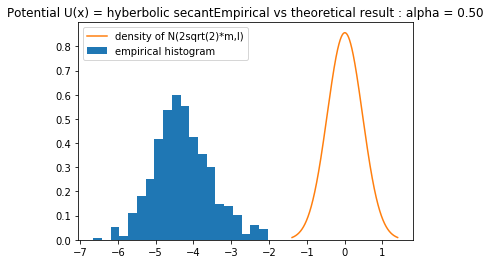
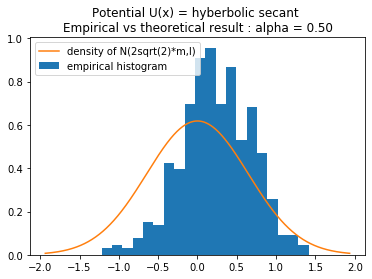
TCL for hyperbolic secant, logistic and laplace laws. Variance is ok but mean (m and hat_m) were not computed

diff --git a/calcul_integrales.py b/calcul_integrales.py
@@ -15,12 +15,29 @@ print("Intégrale I : {}".format(res/n))
 n = int(1e6)
 res=0
 for i in range(n):
-    X = 2/np.pi * hypsecant.rvs(size=1)
-    res += 4 * X**2 / (1 + X**2)**4
+    X = 2/np.pi * hypsecant.rvs(size=1)[0]
+    res += 8 * X**2 / (1 + X**2)**4
 print("Intégrale I hyperbolic secant: {}".format(res/n))
 '''
+#Cas logistique
+n = int(1e6)
+res=0
+for i in range(n):
+    X = np.random.logistic(0,1,size=1)
+    res += 8 * X**2 / (1 + X**2)**4
+print("Intégrale I logistic: {}".format(res/n))
+
+#Cas Laplace
+n = int(1e6)
+res=0
+for i in range(n):
+    X = np.random.laplace(0,1,size=1)
+    res += 8 * X**2 / (1 + X**2)**4
+print("Intégrale I laplace : {}".format(res/n))
+
 ########## Calcul de m pour phi = 1/(1+x^2) ##########
 '''
+#cas OU
 m = 0
 
 print("Intégrale m : {}".format(m))
@@ -29,11 +46,21 @@ print("Intégrale m : {}".format(m))
 n = int(1e6)
 res=0
 for i in range(n):
-    X = 2/np.pi * hypsecant.rvs(size=1)
+    X = 2/np.pi * hypsecant.rvs(size=1)[0]
     X = np.sqrt(2)*X
     res += 24* (X-X**3) / (1+X**2)**4
-print("Intégrale m hyperbolic secant: {}".format(res/n))
+print("Intégrale m hyperbolic secant: {}".format(-res/(6*n)))
+
+#Cas logistic
+n = int(1e6)
+res=0
+for i in range(n):
+    X = 2/np.pi * hypsecant.rvs(size=1)[0]
+    X = np.sqrt(2)*X
+    res += 24* (X-X**3) / (1+X**2)**4
+print("Intégrale m logistic: {}".format(res/n))
 '''
+
 
 ########## Calcul de hat(m) pour phi = 1/(1+x^2) ##########
 
@@ -49,7 +76,7 @@ for i in range(n):
     hat_m += phi4(X) + 0.5 * 0.25 * X**2 * ( 6*X**2 - 2) / ( 1 + X**2)**3
 
 print("Intégrale hat_m : {}".format(-hat_m/n))
-'''
+
 
 #Cas hyperbolic secant
 n = int(1e6)
@@ -60,3 +87,4 @@ for i in range(n):
     res += phi4(X) + 0.5 * 0.25 * X**2 * ( 6*X**2 - 2) / ( 1 + X**2)**3
 
 print("Intégrale hat_m : {}".format(-res/n))
+'''

diff --git a/src/test/PotentialProcess.py b/src/test/PotentialProcess.py
@@ -115,9 +115,9 @@ def heatmap(
 ############# for f = A.phi and phi(x) = 1/(1+x^2)                ##########
 ############ DEPEND ON U                                         ##########
         #à jour hyperbolic secant
-I = 0.21672253 #MC estimation n = 1e7 #change according to U
-m = 0.0016459 #change according to U
-hat_m = -0.108604 #MC estimation n = 1e7 #change according to U
+I = 0.37372441  #MC estimation n = 1e7 #change according to U
+m = 0 #change according to U
+hat_m = 0 #MC estimation n = 1e7 #change according to U
 ##### TCL test instances #####
 class TCL_Test:
     def __init__(
@@ -188,10 +188,10 @@ test_instances.append(TCL_Test(
 
 def tcl(
         test_instance=TCL_Test(),
-        nth_function=4, #CHANGE ACCORDING TO U
-        U=lambda x : np.log(2*np.cosh(0.5*np.pi*x)),
-        gradU=lambda x : 0.5*np.pi*np.tanh(0.5*np.pi*x),
-        label = "Potential U(x) = hyberbolic secant",
+        nth_function=6, #CHANGE ACCORDING TO U
+        U=lambda x : np.abs(x) - np.log(2),
+        gradU=lambda x : 1*(x>=0) - 1*(x<0),
+        label = "Potential U(x) = laplace \n",
         X0=1,
         d=1,
         n=int(1e4),

diff --git a/src/test/testfunctions.py b/src/test/testfunctions.py
@@ -38,13 +38,19 @@ test_collection.append(TestFunction(
 
 #4 Cas loi hyperbolique secante
 test_collection.append(TestFunction(
-    lambda x : (6*x**2 - 2) / (1+x**2)**3 - 0.5*np.pi * np.tanh(np.pi * x / (1+x**2)**2 ),
+    lambda x : (6*x**2 - 2) / (1+x**2)**3 + np.pi * np.tanh(np.pi * 0.5 *x ) * x / (1+x**2)**2,
     "A(1 / (1 + x**2) )")
     )
 
-#4 Cas loi logistique(0,1)
+#5 Cas loi logistique(0,1)
 test_collection.append(TestFunction(
-    lambda x : (6*x**2 - 2) / (1+x**2)**3 - np.tanh(x / (1+x**2)**2 ),
+    lambda x : (6*x**2 - 2) / (1+x**2)**3 + 2*np.tanh(x / 2 ) * x / (1+x**2)**2,
+    "A(1 / (1 + x**2) )")
+    )
+
+#6 Cas loi Laplace(0,1)
+test_collection.append(TestFunction(
+    lambda x : (6*x**2 - 2) / (1+x**2)**3 - (x>=0)* 2* x / (1+x**2)**2 + (x<0)* 2* x / (1+x**2)**2,
     "A(1 / (1 + x**2) )")
     )
 '''
